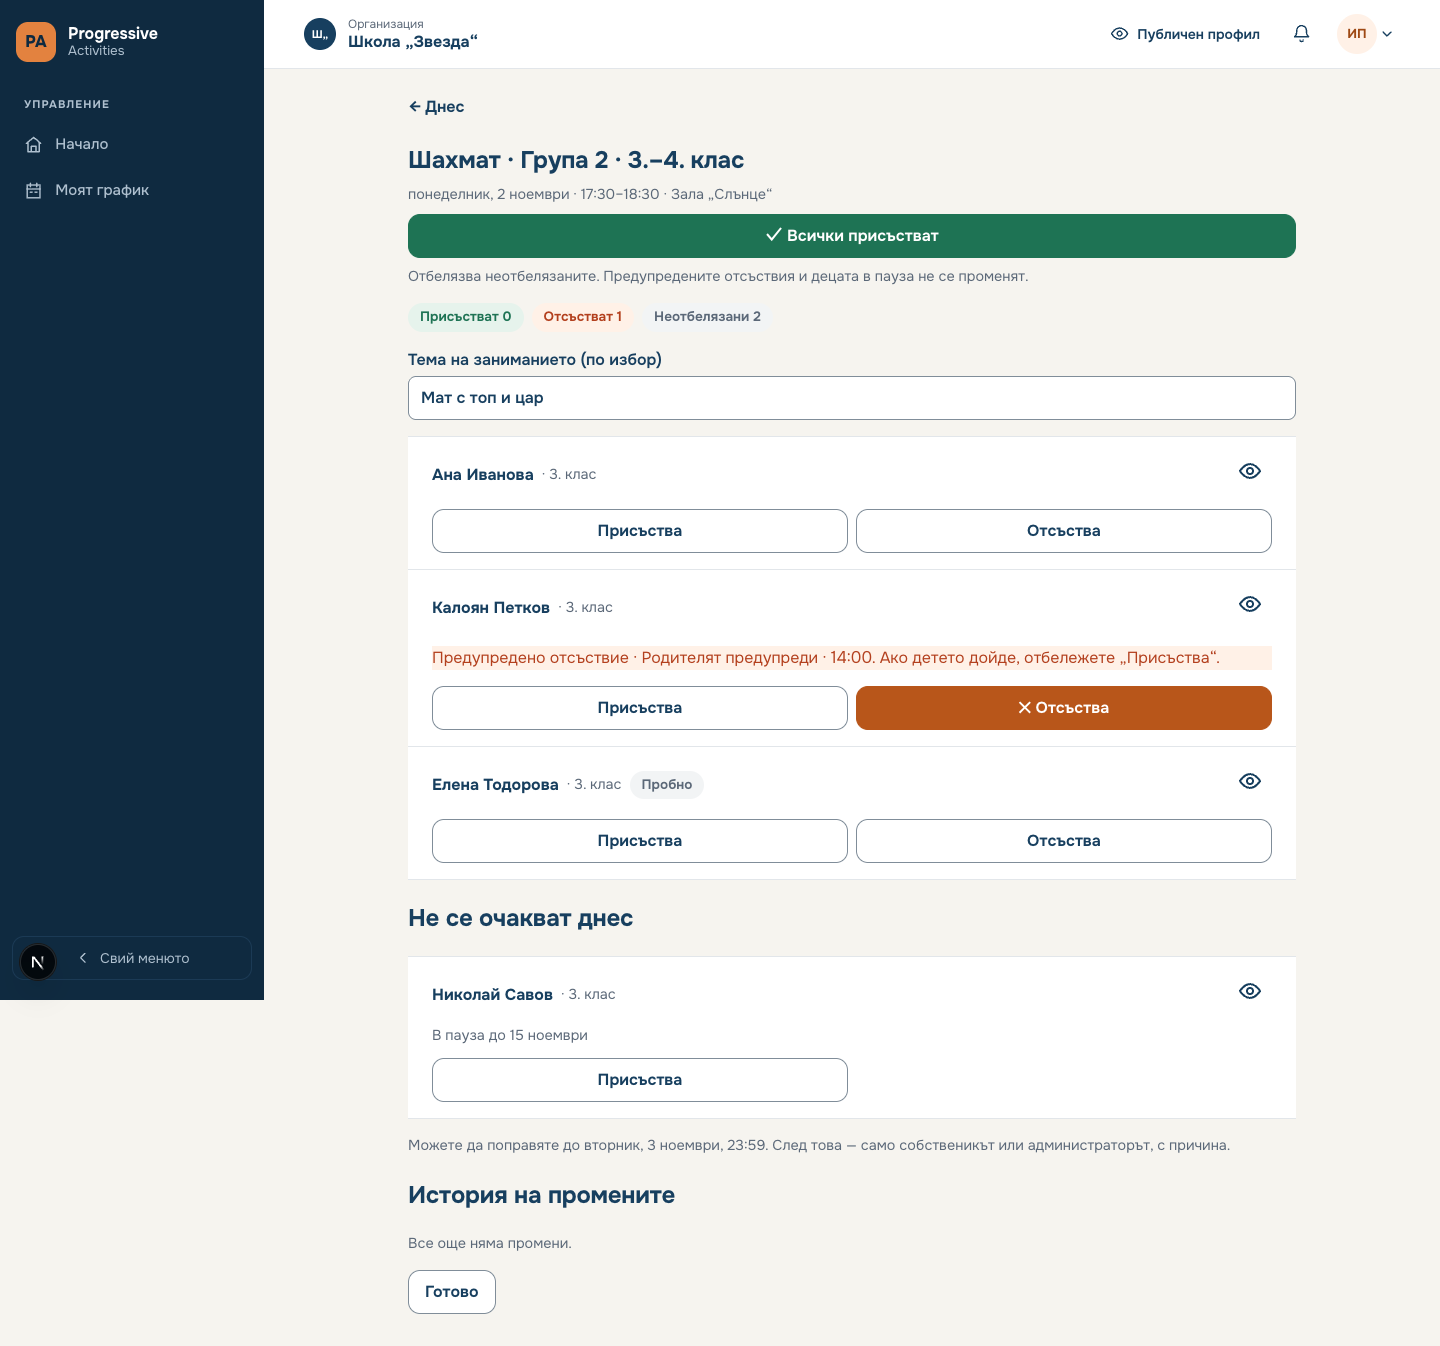
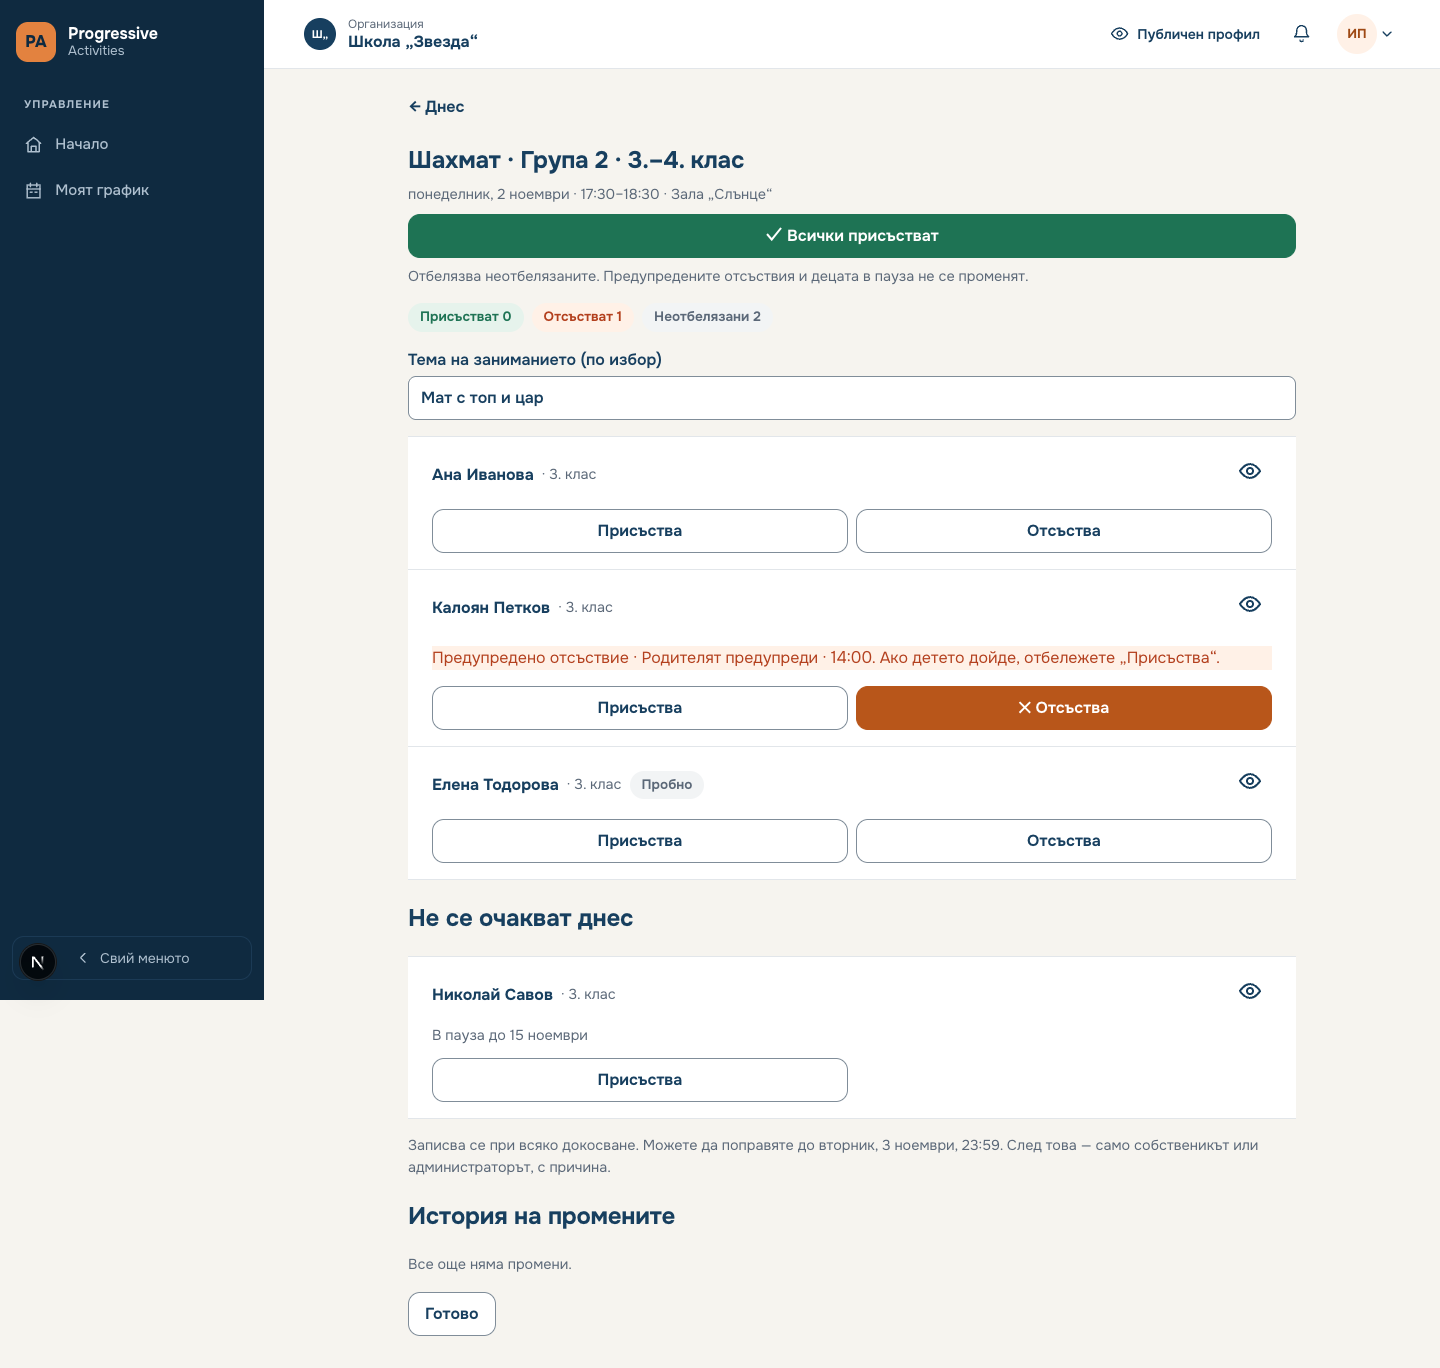
fix: respect late undo limits and record attendance UI validation

diff --git a/platform/apps/web/src/features/attendance/session-page.tsx b/platform/apps/web/src/features/attendance/session-page.tsx
@@ -5,7 +5,7 @@ import { useSearchParams } from 'next/navigation';
 import { useDashboardContext } from '../dashboard/dashboard-context';
 import { ChildCardDialog } from '../schedule/child-card';
 import { AttendanceError, loadSheet, saveAttendance, type Answer, type Applied, type AttendanceChild, type Change, type Mark, type Sheet } from './api';
-import { childLabel, clock, deadlineText, historyLines, initialView, markLabel, when } from './presentation';
+import { childLabel, clock, deadlineText, historyLines, initialView, markLabel, undoAllowed, when } from './presentation';
 import { AttendanceQueue } from './queue';
 import styles from './attendance.module.css';
 type Intent = { id: string; action: Change['action']; marks?: { enrollment_id: string; status: Mark; version?: number }[]; topic?: string; reason?: string; undo?: boolean };
@@ -68,7 +68,7 @@ function SheetEditor({ initial, organizationId, withDetails }: { initial: Sheet;
       intents.current = intents.current.filter((i) => i.id !== intent.id);
       if (answer) { base.current = answer;
         if (intent.undo) setToast({ text: `Отменено: ${answer.applied.length} ${answer.applied.length === 1 ? 'дете' : 'деца'}.`, applied: [] });
-        else if (intent.action !== 'topic' && answer.applied.length) { const one = answer.applied[0]; const name = answer.children.find((c) => c.enrollment_id === one.enrollment_id)?.name ?? 'Дете'; setToast({ text: answer.applied.length === 1 ? `Записано: ${name} — ${markLabel(one.to)}` : `Записано: ${answer.applied.length} деца — Присъства`, applied: answer.applied }); }
+        else if (intent.action !== 'topic' && answer.applied.length) { const one = answer.applied[0]; const name = answer.children.find((c) => c.enrollment_id === one.enrollment_id)?.name ?? 'Дете'; setToast({ text: answer.applied.length === 1 ? `Записано: ${name} — ${markLabel(one.to)}` : `Записано: ${answer.applied.length} деца — Присъства`, applied: undoAllowed(answer.applied, answer.abilities.reason_required) ? answer.applied : [] }); }
         setNotice('');
       } else if (error instanceof AttendanceError) {
         if (error.status === 409 && error.body.children && error.body.session && error.body.abilities && error.body.counts) {
@@ -109,7 +109,7 @@ function SheetEditor({ initial, organizationId, withDetails }: { initial: Sheet;
     <div className={styles.kids}>{sheet.children.filter((c) => c.expected).map(childRow)}</div>
     {sheet.children.some((c) => !c.expected) ? <><h2>Не се очакват днес</h2><div className={styles.kids}>{sheet.children.filter((c) => !c.expected).map(childRow)}</div></> : null}
     {!editing && sheet.abilities.mark ? <button className={styles.button} onClick={() => setMode('mark')}>Поправи</button> : null}
-    <p className={styles.muted}>{sheet.abilities.reason_required ? 'Поправката след срока се записва с причина.' : deadlineText(sheet.abilities.deadline)}</p>
+    <p className={styles.muted}>{editing ? 'Записва се при всяко докосване. ' : ''}{sheet.abilities.reason_required ? 'Поправката след срока се записва с причина.' : deadlineText(sheet.abilities.deadline)}</p>
     <h2>История на промените</h2>{history.length === 0 ? <p className={styles.muted}>Все още няма промени.</p> : null}<ul className={styles.history}>{history.map((line) => <li key={line.id}><strong>{line.text}</strong><p className={styles.muted}>{when(line.at, line.at)}</p></li>)}</ul>
     </>}
     <Link className={styles.button} href={back} onClick={leave}>Готово</Link>

diff --git a/platform/apps/web/tests/e2e/attendance.spec.ts b/platform/apps/web/tests/e2e/attendance.spec.ts
@@ -31,7 +31,7 @@ async function fixture(page: Page, options: { complete?: boolean; late?: boolean
       const body = req.postDataJSON(); const applied = [];
       if (options.conflict && writes.length === 1) { current.children[0].status='absent'; current.children[0].marked_by='Мария Колева'; current.children[0].version=1; return route.fulfill({status:409,json:{...current,conflicts:[id(20)]}}); }
       if (body.action === 'topic') current.session.topic=body.topic;
-      else for (const c of current.children) { const mark = body.marks?.find((m: { enrollment_id:string }) => m.enrollment_id===c.enrollment_id); if (mark || (body.action==='all_present' && c.expected && c.status===null && !c.warned)) { const from=c.status; c.status=mark ? mark.status : 'present'; c.version++; c.warned=c.status!=='present'&&!!c.skip; c.came_while_paused=!c.expected&&c.status==='present'; applied.push({enrollment_id:c.enrollment_id,from,to:c.status,version:c.version}); } }
+      else for (const c of current.children) { const mark = body.marks?.find((m: { enrollment_id:string }) => m.enrollment_id===c.enrollment_id); if (mark || (body.action==='all_present' && c.expected && c.status===null && !c.warned)) { const from=c.status; c.status=mark ? mark.status : 'present'; c.version++; c.warned=c.status!=='present'&&!!c.skip; c.came_while_paused=!c.expected&&c.status==='present'; applied.push({enrollment_id:c.enrollment_id,from,to:c.status,version:c.version}); current.history.unshift({id:id(300+current.history.length),at:'2026-11-02T15:40:00Z',by:'Иван Петров',enrollment_id:c.enrollment_id,from,to:c.status,kind:'mark'}); } }
       current.counts.present=current.children.filter((c)=>c.expected&&c.status==='present').length; current.counts.absent=current.children.filter((c)=>c.expected&&c.status==='absent').length; current.counts.unmarked=current.children.filter((c)=>c.expected&&c.status===null).length;
       json={...current,applied};
     } else if (path.endsWith(`/attendance/sessions/${id(10)}`)) json=current;
@@ -66,6 +66,7 @@ for (const width of [390,768,1440]) {
 test('offline requests keep body/key, serialize later clicks and retry on reconnect',async({page})=>{
   const f=await fixture(page,{offline:true}); await page.goto(`/dashboard/attendance/${id(10)}`);
   const row=page.getByRole('group',{name:'Ана Иванова'}); await row.getByRole('button',{name:'Присъства',exact:true}).click(); await expect(page.getByText('Няма връзка. Отметките ще се запишат, щом се върне.')).toBeVisible();
+  expect(await page.evaluate(()=>{const event=new Event('beforeunload',{cancelable:true}); window.dispatchEvent(event); return event.defaultPrevented;})).toBe(true);
   await row.getByRole('button',{name:'Отсъства',exact:true}).click(); await page.evaluate(()=>window.dispatchEvent(new Event('online'))); await page.waitForTimeout(100); await page.evaluate(()=>window.dispatchEvent(new Event('online')));
   await expect.poll(()=>f.writes.length).toBe(4); expect(f.writes[0]).toEqual(f.writes[1]); expect(f.writes[0]).toEqual(f.writes[2]); expect(JSON.parse(f.writes[3].body).marks[0].version).toBe(1);
 });

diff --git a/platform/apps/web/tests/attendance-presentation.test.ts b/platform/apps/web/tests/attendance-presentation.test.ts
@@ -1,5 +1,5 @@
 import { expect, it } from 'vitest';
-import { deadlineText, historyLines, initialView, clock, childLabel } from '../src/features/attendance/presentation';
+import { deadlineText, historyLines, initialView, clock, childLabel, undoAllowed } from '../src/features/attendance/presentation';
 import type { AttendanceChild, History, Sheet } from '../src/features/attendance/api';
 const child = { enrollment_id: 'e', name: 'Ана Иванова' } as AttendanceChild;
 const row = (id: string, at: string, from: History['from'], to: History['to'], extra: Partial<History> = {}): History => ({ id, at, from, to, by: 'Иван Петров', kind: 'mark', enrollment_id: 'e', ...extra });
@@ -20,4 +20,8 @@ it('groups consecutive first marks, retains late reasons and shows newest lines 
 });
 it('keeps paused presence and warned absence distinct from ordinary absence', () => {
   expect(childLabel({...child, expected:false, came_while_paused:true})).toContain('дошло по време на пауза'); expect(childLabel({...child, expected:true, warned:true})).toBe('Предупредено отсъствие');
+});
+
+it('allows undo to a previous status after the deadline but never clearing a late first mark',()=>{
+ const applied={enrollment_id:'e',from:null,to:'present' as const,version:1}; expect(undoAllowed([applied],false)).toBe(true); expect(undoAllowed([applied],true)).toBe(false); expect(undoAllowed([{...applied,from:'absent'}],true)).toBe(true);
 });

diff --git a/platform/apps/web/src/features/attendance/presentation.ts b/platform/apps/web/src/features/attendance/presentation.ts
@@ -1,4 +1,4 @@
-import type { AttendanceChild, History, Mark, Sheet } from './api';
+import type { Applied, AttendanceChild, History, Mark, Sheet } from './api';
 export const format = (value: string, options: Intl.DateTimeFormatOptions) => new Intl.DateTimeFormat('bg-BG', { timeZone: 'Europe/Sofia', ...options }).format(new Date(value));
 export const clock = (value: string) => format(value, { hour: '2-digit', minute: '2-digit' });
 export const date = (value: string) => format(value, { day: 'numeric', month: 'long' });
@@ -32,3 +32,6 @@ export function historyLines(history: History[], children: AttendanceChild[]): {
   }
   return lines.reverse().map(({ id, at, text }) => ({ id, at, text }));
 }
+
+/** Clearing a mark after the deadline is forbidden by the API. */
+export const undoAllowed = (applied: Applied[], late: boolean): boolean => !late || applied.every((change) => change.from !== null);

diff --git a/docs/process/WORKBOARD.md b/docs/process/WORKBOARD.md
@@ -28,7 +28,7 @@
 
 | Задача | Агент | Клон | Заети области / горещи файлове | Статус / следваща стъпка |
 |---|---|---|---|---|
-| Присъствия — PR 7: екрани за учителя | Codex | `codex/attendance-teacher` | web attendance, Начало/Моите групи, лист на детето, автоматични визуални проверки | По attendance.md 6.1–6.4, 6.8 и макетите Main/MarkA/History/ChildSheet; unit и браузърни проверки, CI |
+| Присъствия — PR 7: екрани за учителя (#133) | Codex | `codex/attendance-teacher` | web attendance, Начало/Моите групи, лист на детето, автоматични визуални проверки | „Днес“, отметки/преглед/история, пауза, тема, опашка/повторение/Отмени и месечен преглед за връзките; 86 засегнати unit теста и 7 браузърни сценария зелени, ESLint/TS/docs:check; снимки на 390/1440 и проверки на 768. Следва CI; общото UX ревю е с PR 8 |
 
 ## Опашка (по приоритет)
 
